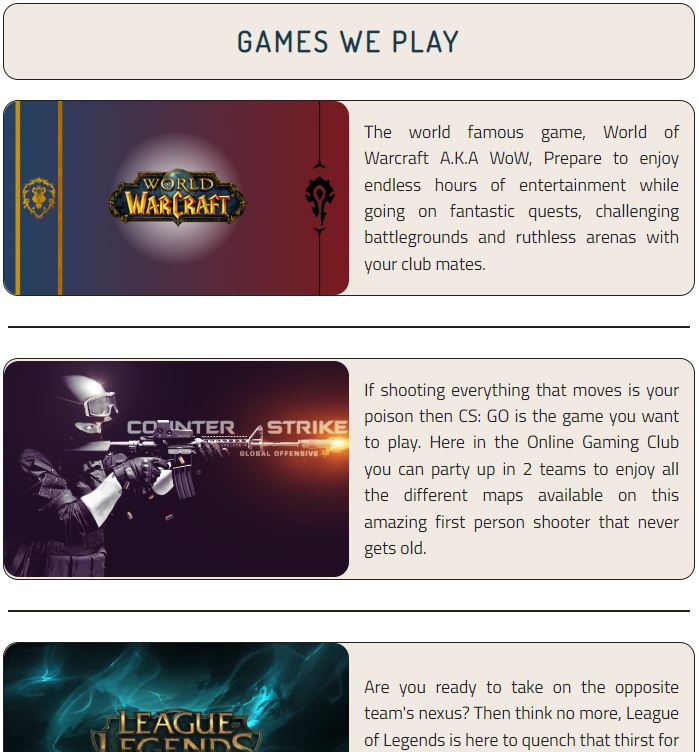
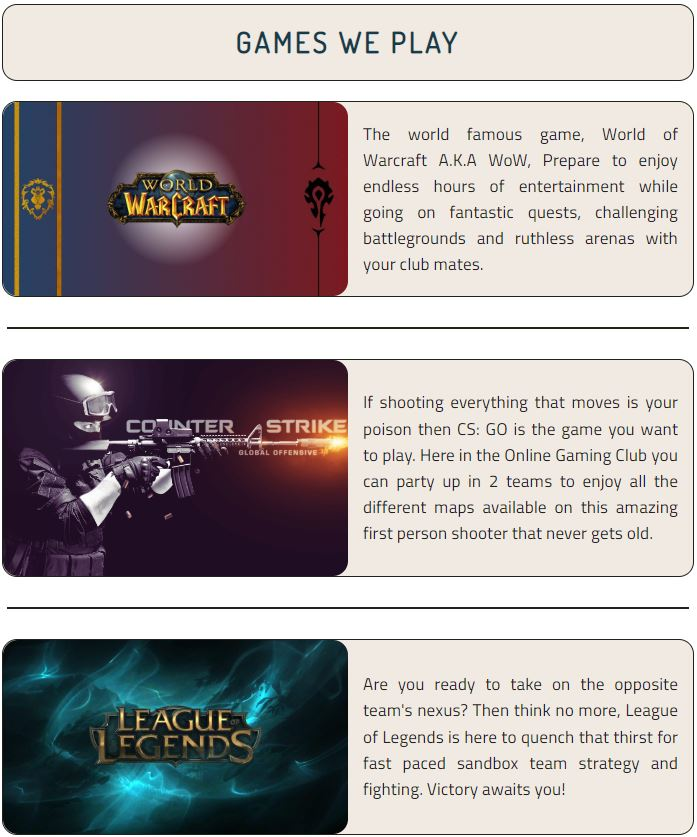
Imagenes grandes comprimidas 3

diff --git a/assets/css/style.css b/assets/css/style.css
@@ -559,7 +559,7 @@ footer a {
         }
 
         .image-text-container p {
-            font-size: 110%;
+            font-size: 109%;
         }
         #welcome-p {
             font-size: 130%;
